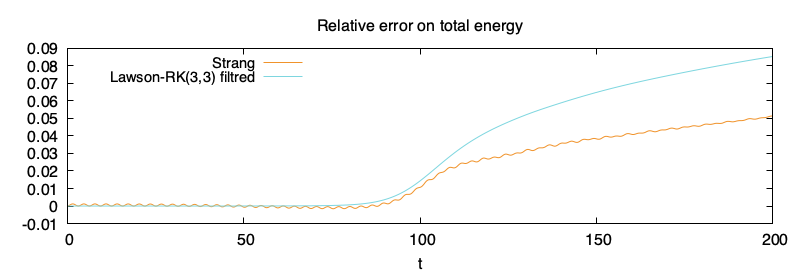
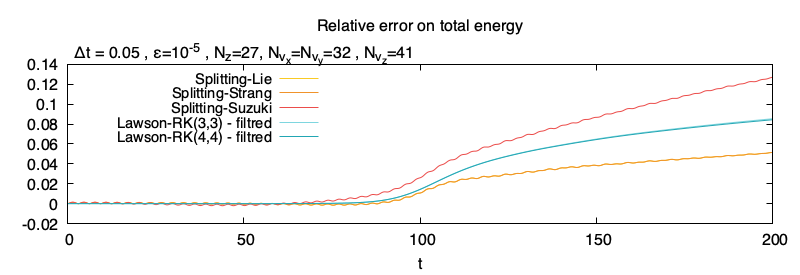
📝 write some stuff on numerical results

diff --git a/chaps/thesis/chap3/sections/numeric.tex b/chaps/thesis/chap3/sections/numeric.tex
@@ -8,35 +8,60 @@ $$
 $$
 avec $z\in[0,\frac{2\pi}{k}]$, $k=2$, $\bar{v}_{\|}=0.2$, $\bar{v}_\perp=0.6$, $\rho_h=0.2$ et $B_x(t=0,z)=\epsilon\sin(kz)$. Les autres inconnues du système $(j_{c,x},j_{c,y},B_y,E_x,E_y)$ sont initialisées à zéro. Le domaine en vitesse est restreint à $\vb{v}\in[-3.6,3.6]\times[-3.6,3.6]\times[-2.4,2.4]$ et on note $N_z$, $N_{v_x}$, $N_{v_y}$, $N_{v_z}$ le nombre de points de discrétisation dans chaque direction. Dans chacune des simulations, on s'intéresse à l'évolution temporelle des énergies suivantes :
 \begin{description}
-  \item[Énergie magnétique : ] $$\mathcal{H}_B(t) = \frac{1}{2}\int \left( B_x^2(t,z) + B_y^2(t,z) \right)\dd{z}$$
-  \item[Énergie électrique : ] $$\mathcal{H}_E(t) = \frac{1}{2}\int \left( E_x^2(t,z) + E_y^2(t,z) \right)\dd{z}$$
-  \item[Énergie cinétique des particules froides : ] $$\mathcal{H}_c(t) = \frac{1}{2\Omega_{pe}^2}\int \left( j_{c,x}^2(t,z) + j_{c,y}^2(t,z) \right)\dd{z}$$
-  \item[Énergie cinétique des particules chaudes :  ] $$\mathcal{H}_h(t) = \frac{1}{2}\iint |\vb{v}|^2 f_h(t,z,\vb{v}) \dd{\vb{v}}\dd{z}$$
+  \item[Énergie magnétique : ] \begin{equation}\label{eq:3:nrj:me}\mathcal{H}_B(t) = \frac{1}{2}\int \left( B_x^2(t,z) + B_y^2(t,z) \right)\dd{z}\end{equation}
+  \item[Énergie électrique : ] \begin{equation}\label{eq:3:nrj:ee}\mathcal{H}_E(t) = \frac{1}{2}\int \left( E_x^2(t,z) + E_y^2(t,z) \right)\dd{z}\end{equation}
+  \item[Énergie cinétique des particules froides : ] \begin{equation}\label{eq:3:nrj:ce}\mathcal{H}_c(t) = \frac{1}{2\Omega_{pe}^2}\int \left( j_{c,x}^2(t,z) + j_{c,y}^2(t,z) \right)\dd{z}\end{equation}
+  \item[Énergie cinétique des particules chaudes :  ] \begin{equation}\label{eq:3:nrj:he}\mathcal{H}_h(t) = \frac{1}{2}\iint |\vb{v}|^2 f_h(t,z,\vb{v}) \dd{\vb{v}}\dd{z}\end{equation}
 \end{description}
 dont la somme, l'énergie totale, est préservée au cours du temps :
 $$
   \dv{\mathcal{H}}{t} = \dv{\mathcal{H}_B+\mathcal{H}_E+\mathcal{H}_c+\mathcal{H}_h}{t} = 0.
 $$
-
+Les diagnostiques que nous regarderons pour vérifier la validité des résutlats sont les différentes énergies au cours du temps, en vérifiant le taux d'instabilité donné par les relations de dispersion, présentées dans~\cite{Holderied:2020}. La comparaison entre les méthodes de résolution se fera à partir de la préservation de l'énergie totale $\mathcal{H}$, et de l'erreur relative produite par chacune des méthodes, nous comparerons également les temps de calcul.
 
 %%%%%%%%%%%%%%%%%%%%%%%%%%%%%%%%%%%%%%%%%%%%%%%%%%%%%%%%%%%%%%%%%%%%%
 
+\FloatBarrier
 \subsection{Comparaison des solveurs à pas de temps constant}
 % -------------------------------------------------------------------
+
+Dans un premier temps nous considérons la méthode de \emph{splitting} et de Lawson avec un pas de temps constant, comme présenté dans la section~\ref{sec:3:scheme}. Nous présentons trois méthodes de \emph{splitting}, à savoir les méthodes de Lie, Strang et de Suzuki. La méthode de Suzuki ne sera présente qu'à titre d'illustration mais celle-ci n'est pas très intéressante dans un contexte multidimensionel, en effet ses résultats sont très similaires à la méthode de Strang, mais sont temps de calcul représente 5 fois celui de cette méthode d'ordre 2. Dès que l'hamiltonien se subdivise en de nombreuses parties (7 dans notre cas), le nombre d'étapes requises pour obtenir de l'ordre élevé augmente drastiquement (même si certaines stratégies peuvent être utilisées pour éviter cela, comme présentées dans~\cite{Casas:2017}). La méthode de Strang nécessite à elle seule 15 étapes, ce qui représente $5\times15=75$ étapes par itération, ce qui est trop important pour que la méthode soit compétitive. Nous présenterons également deux méthodes de Lawson, la méthode LRK(3,3) et LRK(4,4) induites respectivement par la méthode RK(3,3) de Shu-Osher et la méthode RK(4,4) dite classique. Contrairement aux méthodes de \emph{splitting}, les méthodes de Lawson ne sont pas trop impactées par la montée en ordre dans le sens où le nombre d'étages nécessaire correspond, \emph{à peu près}, à l'ordre de la méthode. De plus, il existe une souplesse intrinsèque aux méthodes de Lawson qui réside dans le choix de la partie linéaire. Ce choix permet, par exemple, de se soustraire de certaines conditions de stabilités, sous contrainte du calcul de l'exponentielle de cette partie, problème contourné dans la section~\ref{s3:approx}. De plus le filtrage possible du terme $\vb{v}\times\vb{B}$ est intéressant dans les méthodes de Lawson car il permet de relaxer la condition de stabilité de la méthode. Un filtrage similaire serait envisageable dans les méthodes de \emph{splitting}, avec comme coût l'ajout de sous-étapes supplémentaires dans l'étape $\mathcal{H}_{f_h}$, étape déjà la plus coûteuse numériquement.
+
+L'utilisation de schéma explicites introduit une condition de stabilité dans la résolution des équations de Maxwell, dans les deux approches (méthode de \emph{splitting} et de Lawson), présentée dans~\cite{Kormann:2021}. Il est également possible de se concentrer uniquement sur les inconnues $(B_x,B_y,E_x,E_y)$ pour déduire une condition de stabilité, comme vu dans la sous-section~\ref{ssec:3:cflMaxwell}. Le tableau~\ref{tab:CFL_maxwell} résume des différentes conditions de stabilité. Pour les méthodes de Lawson une condition de CFL supplémentaire provient des la discrétisation en vitesse, mais on remarque numériquement que cette dernière est moins contraignante que la condition provenant des équations de Maxwell. Nous verrons dans la section~\ref{s3:approx} comment s'affranchir de cette condition en intégrant les équations de Maxwell dans la partie linéaire de la méthode de Lawson.
+
+\begin{table}[h]
+  \centering
+  \begin{tabular}{c|c}
+    methode         & condition de CFL          \\
+    \hline
+    Lie             & $(\sqrt{2}/\pi) \Delta z$ \\ 
+    Strang          & $(2/\pi)\Delta z$         \\
+    Lawson-RK(3, 3) & $(\sqrt{3}/\pi)\Delta z$  \\ 
+    Lawson-RK(4, 4) & $(2\sqrt{2}/\pi) \Delta z$  
+  \end{tabular}
+  \caption{Condition CFL de stabilité provenant des équations de Maxwell en utilisant différents intégrateurs.} 
+  \label{tab:CFL_maxwell}
+\end{table}
+
+Nous traçons, sur la figure~\ref{fig:energies4d} l'évolution des énergies électrique, magnétique et l'énergie cinétique provenant des particules froides, définies précédemment, en échelle semi-log, pour différentes méthodes de \emph{splitting} (méthode de Lie, de Strang, et de Suzuki), et différentes méthodes de Lawson (LRK(3,3) et LRK(4,4)). On choisit le maillage $27\times32\times32\times41$ et $\Delta t=0.05$ (ce qui assure la stabilité de toutes les méthodes présentées). On considère une faible perturbation $\epsilon = 10^{-5}$, pour assurer une longue phase linéaire (jusqu'au temps $t\approx 100$) tandis que la phase non-linéaire se développe jusqu'au temps final $t=200$. Dans la partie linéaire, il est possible de comparer les résultats numériques avec les solutions des relations de dispersion présentées dans~\cite{Holderied:2020}. Comme attendu, les trois énergies suivent une croissance exponentielle, avec le taux prédit par la théorie linéaire, ce qui se traduit des transferts d'énergie des particules rapides (chaudes) vers l'énergie électro-magnétique et aux particules froides. Après la phase linéaire, les champs sature en amplitude, ce qui marque l'effet des termes non-linéaires, la théorie linéaire n'est plus valide. On remarque que les deux classes de méthodes capture efficacement les différents phénomènes en jeu dans la phase linéaire, avec une très bonne corrélation avec les taux d'instabilités calculés à l'aide de la théorie linéaire. De plus les différentes méthodes satures à des niveaux d'énergie très similaire.
+
+La figure~\ref{fig:energy_tot4d} représente l'erreur relative sur l'énergie totale, et permet d'étudier la conservation de celle-ci par les différentes méthodes. Bien que le maillage en espace soit très grossier ($\Delta z = \frac{2\pi}{27} \approx 0.23$) l'énergie totale est plutôt bien préservée : aux alentours de $8\%$ pour les deux méthodes de Lawson présentées, et autour de $5\%$ d'erreur pour les méthodes de Lie et de Strang. La méthode de Suzuki produit bien plus d'erreur (autour de $12\%$) très certainement à cause des multiples transformées de Fourier selon l'axe $z$ effectuées avec peu de points de discrétisation. Comme attendu, et observé dans le cas $1dx-1dv$, les méthodes basées sur un \emph{splitting} hamiltonien ont une bonne préservation de l'énergie totale, mais les qualités de leurs résultats, surtout observable avec la méthode de Suzuki, suggère la nécessité de raffiner le maillage. Il est à souligner que le coût numérique de la méthode de Strang, est environ deux fois plus important que celui de la méthode LRK(3,3).
 
 \begin{figure}[h]
   \centering
   \includegraphics[width=0.9\textwidth]{\localPath/figures/energy_a_vmhl.png}
-  \caption{Time evolution of the electric energy, the magnetic energy and the energy of cold particles defined in \eqref{energies}, in semi-$\log$ scale for Strang and Lawson-RK(3, 3). $\Delta t = 0.05, N_x=27, N_{v_x}=32, N_{v_y}=32, N_{v_z}=41$.}
+  \caption{Évolution de l'énergie électrique, magnétique et l'énergie cinétique des particules froides définies dans les équations~\ref{eq:3:nrj:me}-\ref{eq:3:nrj:ce}, en échelle semi-$\log$, pour les méthodes de \emph{splitting} de Lie, Strang et Suzuki, et pour les méthodes de Lawson LRK(3,3) et LRK(4,4). $\Delta t = 0.05, N_x=27, N_{v_x}=32, N_{v_y}=32, N_{v_z}=41$.}
   \label{fig:energies4d}
 \end{figure}
 
 \begin{figure}[h]
   \centering
   \includegraphics[width=0.9\textwidth]{\localPath/figures/H_a_vmhl.png}
-  \caption{Time evolution of the total energy for Strang and Lawson-RK(3, 3). $\Delta t = 0.05, N_x=27, N_{v_x}=32, N_{v_y}=32, N_{v_z}=41$.}
+  \caption{Évolution de l'erreur relative sur l'énergie totale, pour les méthodes de \emph{splitting} de Lie, Strang et Suzuki, et pour les méthodes de Lawson LRK(3,3) et LRK(4,4). $\Delta t = 0.05, N_x=27, N_{v_x}=32, N_{v_y}=32, N_{v_z}=41$.}
   \label{fig:energy_tot4d}
 \end{figure}
+
+On peut étudier l'importance du filtrage du terme $\vb{v}\times\vb{B}$ avec la figure~\ref{fig:compar_ee4d}, où l'on trace l'évolution de l'énergie électrique pour la méthode de Lawson LRK(3,3) avec ou sans le filtrage (voir l'algorithme~\ref{alg:modif} pour la différence algorithmique entre les deux méthodes) pour deux maillages différents de l'espace des phases ($15\times20\times20\times41$ à gauche et $15\times32\times32\times41$ à droite) avec un pas de temps $\Delta t = 0.1$. On peut observer l'impacte sur les résultats du raffinement dans la direction $v_\perp$ sur la méthode non-filtrée, alors que sur la méthode filtrée on obtient un taux d'instabilité satisfaisant avec le maillage le plus grossier.
 
 \begin{figure}[h]
   \centering
@@ -48,21 +73,34 @@ $$
 
 %%%%%%%%%%%%%%%%%%%%%%%%%%%%%%%%%%%%%%%%%%%%%%%%%%%%%%%%%%%%%%%%%%%%%
 
+\FloatBarrier
 \subsection{Étude à pas de temps adaptatif}
 % -------------------------------------------------------------------
 
+Le dernier test que nous souhaitons effectuer avec ces méthodes de résolution, est de considérer la méthode de Lawson à pas de temps adaptatif induite par le schéma DP4(3). Pour que l'approche à pas de temps adaptatif soit intéressante dans notre cas il faut que :
+\begin{enumerate}[label=(\roman*)]
+  \item Les champs électromagnétiques soient suffisamment faible dans la phase linéaire pour pouvoir prendre des grands pas de temps,\label{list:i}
+  \item La condition de stabilité provenant des équations de Maxwell ne doit pas trop restrictive,\label{list:ii}
+  \item Dans la phase non-linéaire, l'estimateur d'erreur nous assure la stabilité.\label{list:iii}
+\end{enumerate}
+En pratique, à cause de la discrétisation en espace la condition~\ref{list:ii} n'est pas satisfaite. Pour la suite nous considérons les paramètres numériques suivant : $N_z=27$, $N_{v_x}=32$, $N_{v_y}=32$, $N_{v_z}=41$, $tol=6\times10^{-5}$ et le pas de temps calculé par :
+$$
+  \Delta t_0 = \frac{C}{2}\Delta z,\quad \Delta t_{n+1} = \min\left( \max\left( \sqrt[p]{\frac{tol}{L_{[p]}^{n+1}}}\Delta t_n ,\frac{C}{2}\Delta z \right) , 3C\Delta z \right), n\geq 0
+$$
+où $L_{[p]}^{n+1}$ est l'erreur locale calculée par~\ref{eq:Lerror}, et $C$ est donné par le tableau~\ref{tab:CFL_maxwell}. La figure~\ref{fig:energieselecdp43} montre l'énergie électrique en échelle semi-log. Comme pour les méthodes présentées dans la section~\ref{ssec:2:dtn} les résultats sur les énergies sont très similaires, on capture le bon taux d'instabilité. On regarde sur la figure~\ref{fig:dtanderrordp43} deux diagnostiques sur la méthode LDP4(3). Tout d'abord l'évolution de la taille des pas de temps au cours du temps (figure du haut). La simulation avec LDP4(3) est initialisée avec un pas de temps $\Delta t_0=0.05\approx\frac{1}{2}\frac{2\sqrt{2}}{N_z}$, les 3 itérations suivantes sont effectuée avec le pas de temps $\Delta t_n=3\frac{2\sqrt{2}}{N_z}$ qui est la borne supérieure que peut prendre le pas de temps $\Delta t_n$ (pour minimiser l'erreur générée en début de simulation, les champs électromagnétiques étant très faibles, l'estimateur d'erreur $L_{[p]}^{n+1}$ permet de prendre des pas de temps supérieur à $1$) ; les autres itérations sont effectuées avec un pas de temps très proche de la condition de stabilité provenant des équations de Maxwell. Dans la phase linéaire, jusqu'au temps $t\approx 100$, la condition~\ref{list:ii} n'est pas satisfaite, la résolution des équations de Maxwell impose une condition CFL forte. Dans la phase non-linéaire, du temps $t\approx100$ jusqu'au temps final $t=200$, la condition de stabilité induite par le transport dans les directions $(v_x,v_y,v_z)$ n'est pas trop contraignante, ce qui permet de satisfaire la condition~\ref{list:iii} avec une contrainte pas trop forte. On remarque tout de même que la méthode LDP4(3) permet de prendre des pas de temps légèrement supérieur à cette condition de stabilité, en effet $16\%$ des itérations réussites ont un pas de temps $\Delta t_n$ supérieur à la condition de stabilité $\frac{2\sqrt{2}}{N_z}$. La deuxième partie de la figure~\ref{fig:dtanderrordp43}, celle-du bas, présente l'erreur locale au cours du temps, sont tracées également les itérations rejetées à l'aide des carrés. Contrairement au cas $1dx-1dv$, où le surcoût engendré par les itérations rejetées était négligeable, ici, seulement $71\%$ des itérations sont acceptées par le critère d'erreur.
+
 \begin{figure}[h]
   \centering
-  \includegraphics[width=0.9\textwidth]{\localPath/figures/energy_dp43_vmhl.png}
-  \caption{Time evolution of the electric energy defined in \eqref{energies}, in semi-$\log$ scale for Lawson-RK(3, 3) ($\Delta t=0.05$) and Lawson-DP4(3). $N_x=27, N_{v_x}=32, N_{v_y}=32, N_{v_z}=41$.}
+  \includegraphics[width=0.77\textwidth]{\localPath/figures/energy_dp43_vmhl.png}
+  \caption{Évolution de l'énergie électrique définie dans~\eqref{eq:3:nrj:ee}, en échelle semi-$\log$ pour les méthodes LRK(3,3) ($\Delta t = 0.05$) et LDP4(3). $N_x=27, N_{v_x}=32, N_{v_y}=32, N_{v_z}=41$.}
   \label{fig:energieselecdp43}
 \end{figure}
 
 \begin{figure}[h]
   \centering
-  \includegraphics[width=0.9\textwidth]{\localPath/figures/dt_size_vmhl.png}
-  \includegraphics[width=0.9\textwidth]{\localPath/figures/L_vmhl.png}
-  \caption{Time evolution of the time step (top) and the local error (bottom) for Lawson-DP4(3). $N_x=27, N_{v_x}=32, N_{v_y}=32, N_{v_z}=41$.}
+  \includegraphics[width=0.77\textwidth]{\localPath/figures/dt_size_vmhl.png}
+  \includegraphics[width=0.77\textwidth]{\localPath/figures/L_vmhl.png}
+  \caption{Évolution au cours du temps de la taille du pas du temps (haut) et de l'erreur locale (bas) pour la méthode de Lawson LDP4(3). $N_x=27, N_{v_x}=32, N_{v_y}=32, N_{v_z}=41$.}
   \label{fig:dtanderrordp43}
 \end{figure}
 

diff --git a/chaps/thesis/chap3/sections/scheme.tex b/chaps/thesis/chap3/sections/scheme.tex
@@ -1,8 +1,9 @@
 % !TEX root = ../../main.tex
 
 \section{Schémas numériques}
+\label{sec:3:scheme}
 
-\subsection{Méthode de \emph{splitting} haniltonien}
+\subsection{Méthode de \emph{splitting} hamiltonien}
 % -------------------------------------------------------------------
 
 Nous utilisons ici une méthode de \emph{splitting} hamiltonien. Pour le modèle $1dz -- 3dv$ celui-ci se décompose en 4 étapes, et il s'écrit sous la forme :
@@ -235,6 +236,7 @@ Les autres équations restent inchangées. Les termes impactés sont dans la par
 
 \subsubsection{Calcul de stabilité avec les équations de Maxwell}
 % ~~~~~~~~~~~~~~~~~~~~~~~~~~~~~~~~~~~~~~~~~~~~~~~~~~~~~~~~~~~~~~~~~~~
+\label{ssec:3:cflMaxwell}
 
 L'introduction des équations de Maxwell dans la partie non-linéaire de la méthode de Lawson, comme indiquée dans~\eqref{eq:3:LNsmaxwell}, implique une condition de stabilité provenant de ces termes. \Josselin{Il faut dire à un moment que la CFL de Maxwell risque d'être plus restrictive que celle provenant de la partie non-linéaire, car dans $N(U)$ il y a un peu de monde, entre autre on a jamais regardé si une CFL survenait des termes de couplage $\int v_\star f \,\mathrm{d}v$. En même temps le titre de la sous-sous-section parle uniquement de la CFL provenant des équations de Maxwell, la CFL qu'on est obligé de subir car on ne sait pas mettre les équations de Maxwell dans la partie linéaire de Lawson.}
 
